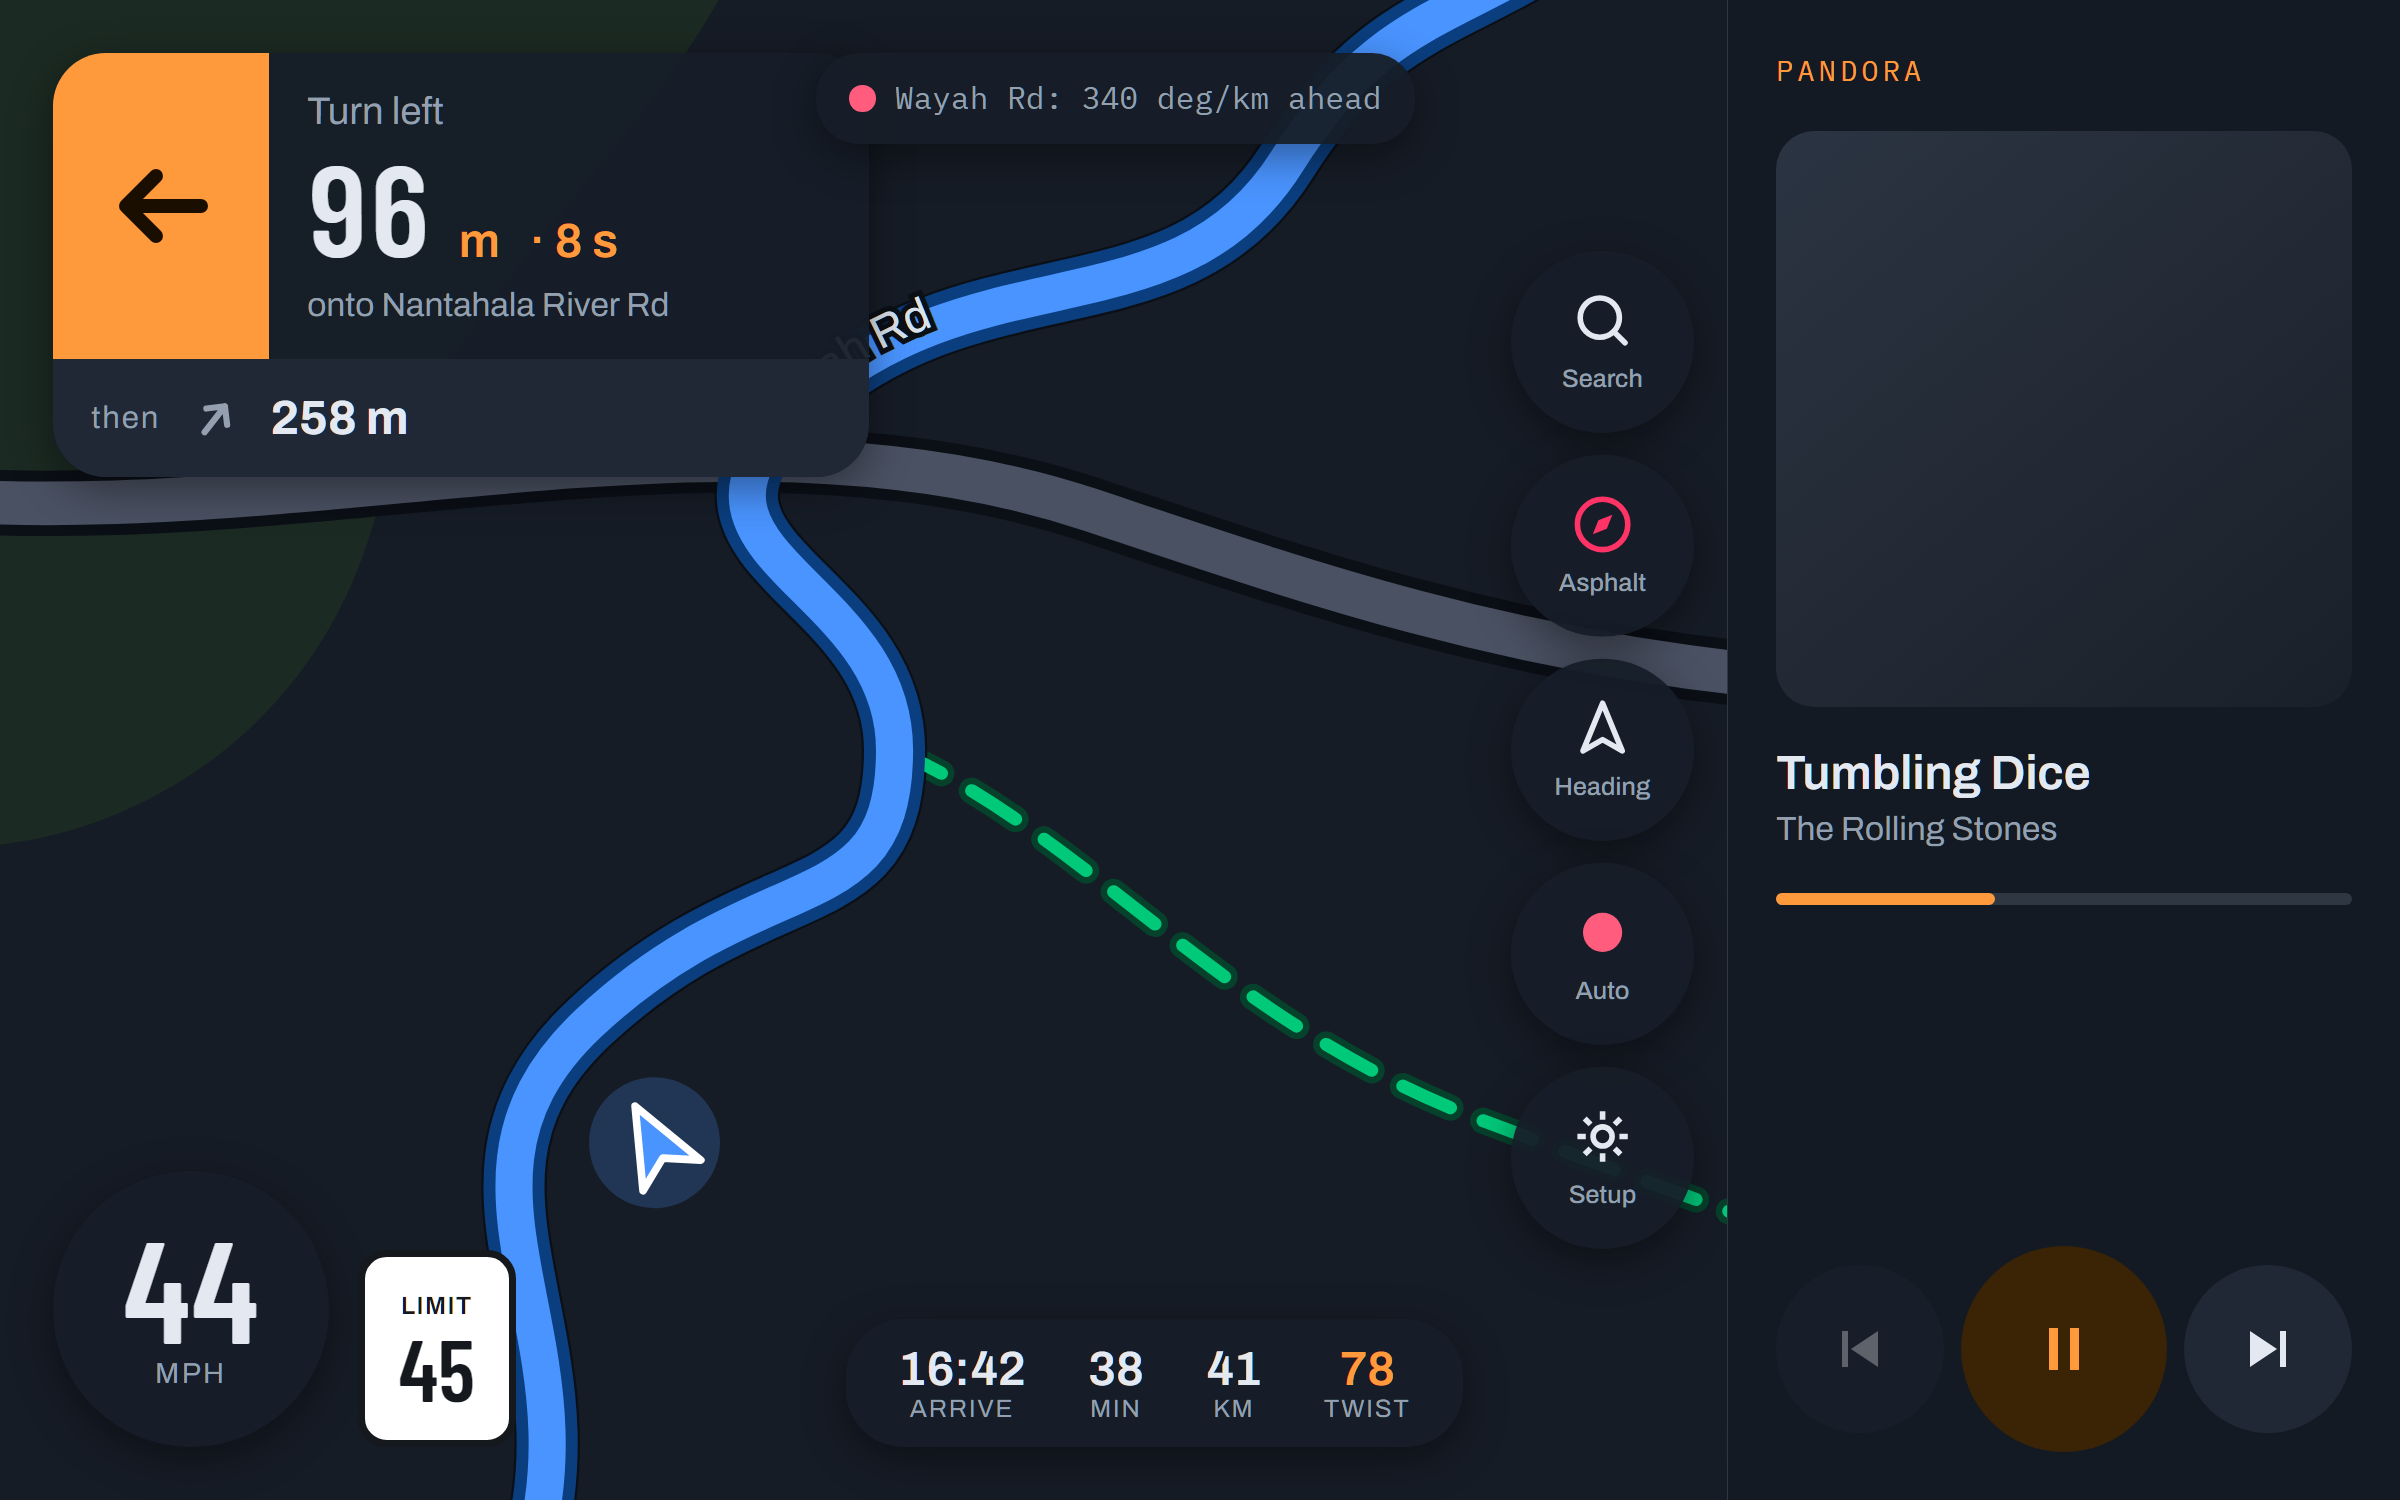
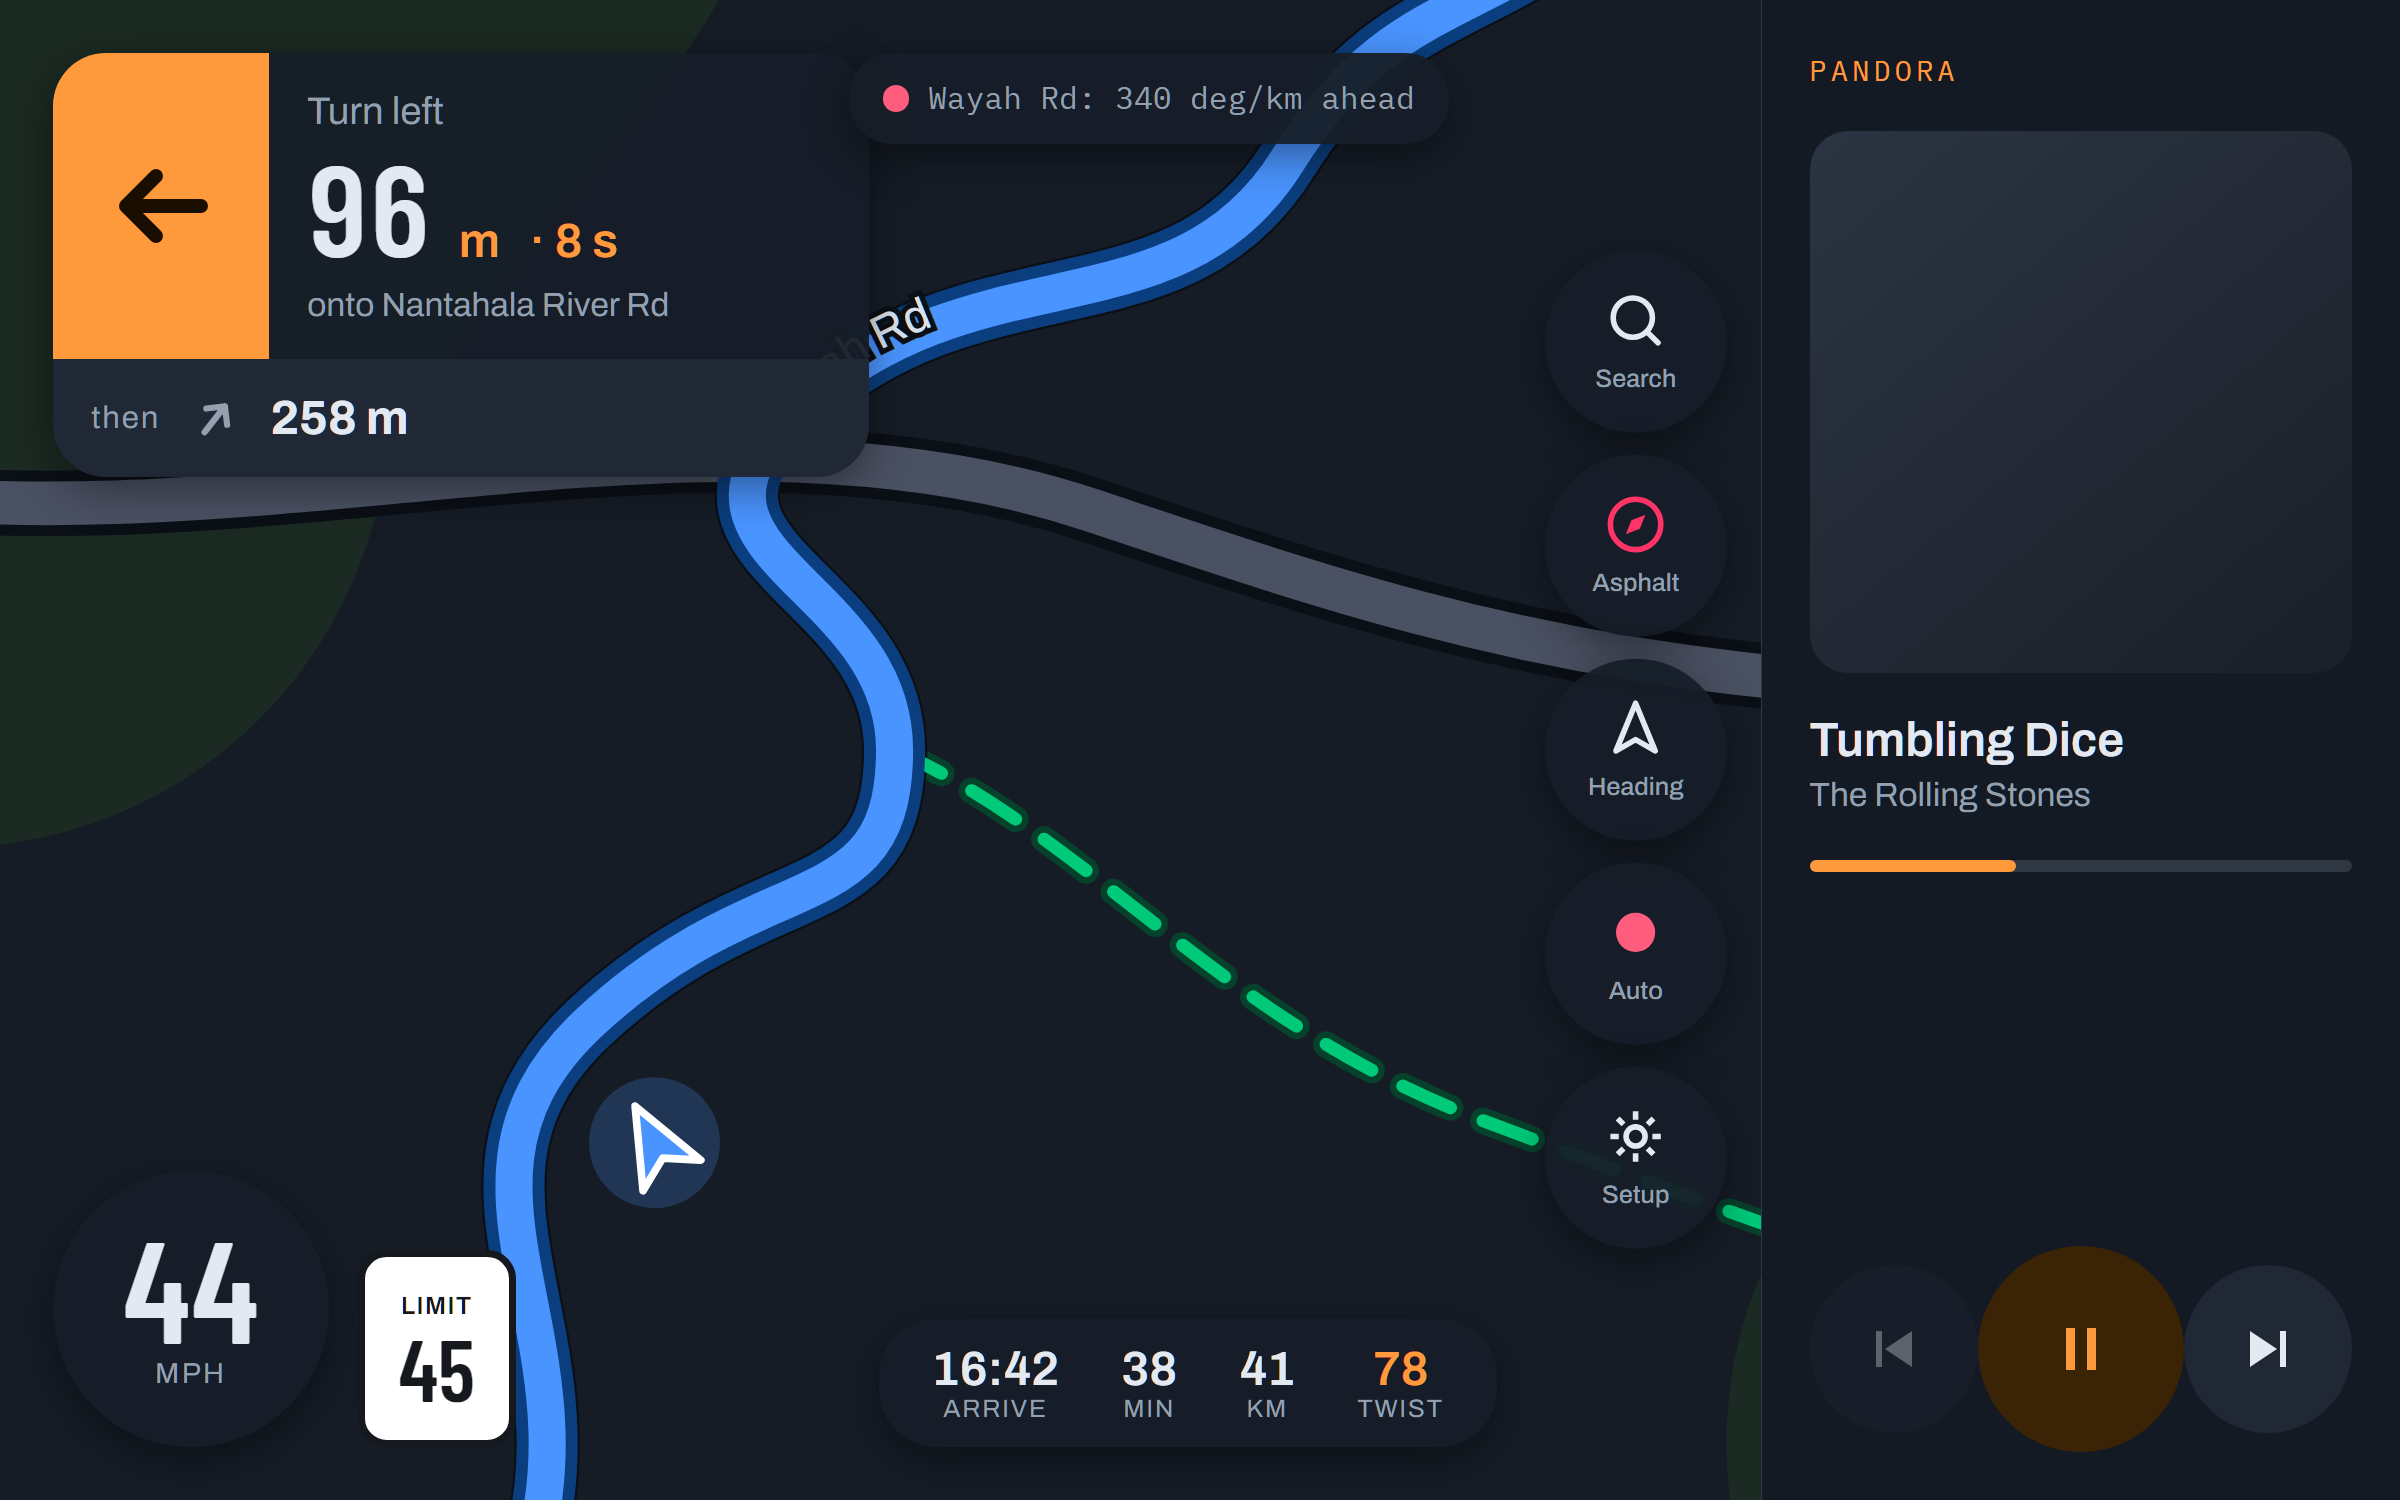
Touge post: the media pane is a width, not a share of the screen
Went looking for Android Auto's standard split and there is not one. Google
publishes no ratio for Coolwalk; it tiles cards and the proportion falls out
of the head unit. So the pane is 260 dp and the map takes the rest, which on a
wider panel gives the map the difference rather than the album art.

Dash screenshot re-rendered to match, and the test count is current.

Claude-Session: https://claude.ai/code/session_01PURz7TfAYjJW11Rb4raReL

diff --git a/_posts/2026-09-16-touge-offline-routing-and-recording.md b/_posts/2026-09-16-touge-offline-routing-and-recording.md
@@ -98,11 +98,21 @@ is right.
 
 ![The driving screen, map left, media pane right](/assets/images/touge/dash-split.png)
 
-Map on the left three quarters, media on the right quarter, the way the Bronco
-lays out Android Auto. I tried a third for the media pane first, which is what
-Android Auto does. On a head unit that is correct, because the media card is
-what you look at between turns. Here the map is the product, so the difference
-went back to the map where it buys lookahead.
+Map on the left, media pane on the right, the way the Bronco lays out Android
+Auto. I started by copying Android Auto's split, then trimmed it, then went
+looking for what the actual standard is and found there isn't one. Google
+publishes no ratio for Coolwalk. It tiles cards and the proportion falls out
+of the head unit's aspect, its size, and which side you put the driver on.
+
+So the pane is not a share of the screen at all. It is 260 dp, and the map
+takes everything else. What the pane needs is room for three controls and two
+lines of text, and that is a fixed number of dp; everything past it is album
+art, which is the only thing on there that is decoration rather than
+information. The 260 is derived: three controls at 64 dp with 16 dp between
+them is 224, plus padding. Below that they stop clearing a gloved thumb.
+
+On a 1280 dp panel it works out to a fifth. On a wider one it is less, and the
+map gets the difference instead of the artwork growing, which is the point.
 
 The pane reads the Android media session rather than integrating with
 anything, so Pandora, Spotify and a podcast app all work and none of them had
@@ -205,7 +215,7 @@ apart.
 Built and tested: the map stack on PMTiles read straight off the card, the
 curvature and relief scoring, the record trigger, the offline search index,
 GPX import, the opening-hours parser, the IMU zero, the split dash, the route
-choice screen. 151 unit tests, all green.
+choice screen. 160 unit tests, all green.
 
 Not built yet: the router itself, and the encoder. Routing is going to be
 BRouter. GraphHopper dropped Android and offline support, and Valhalla
